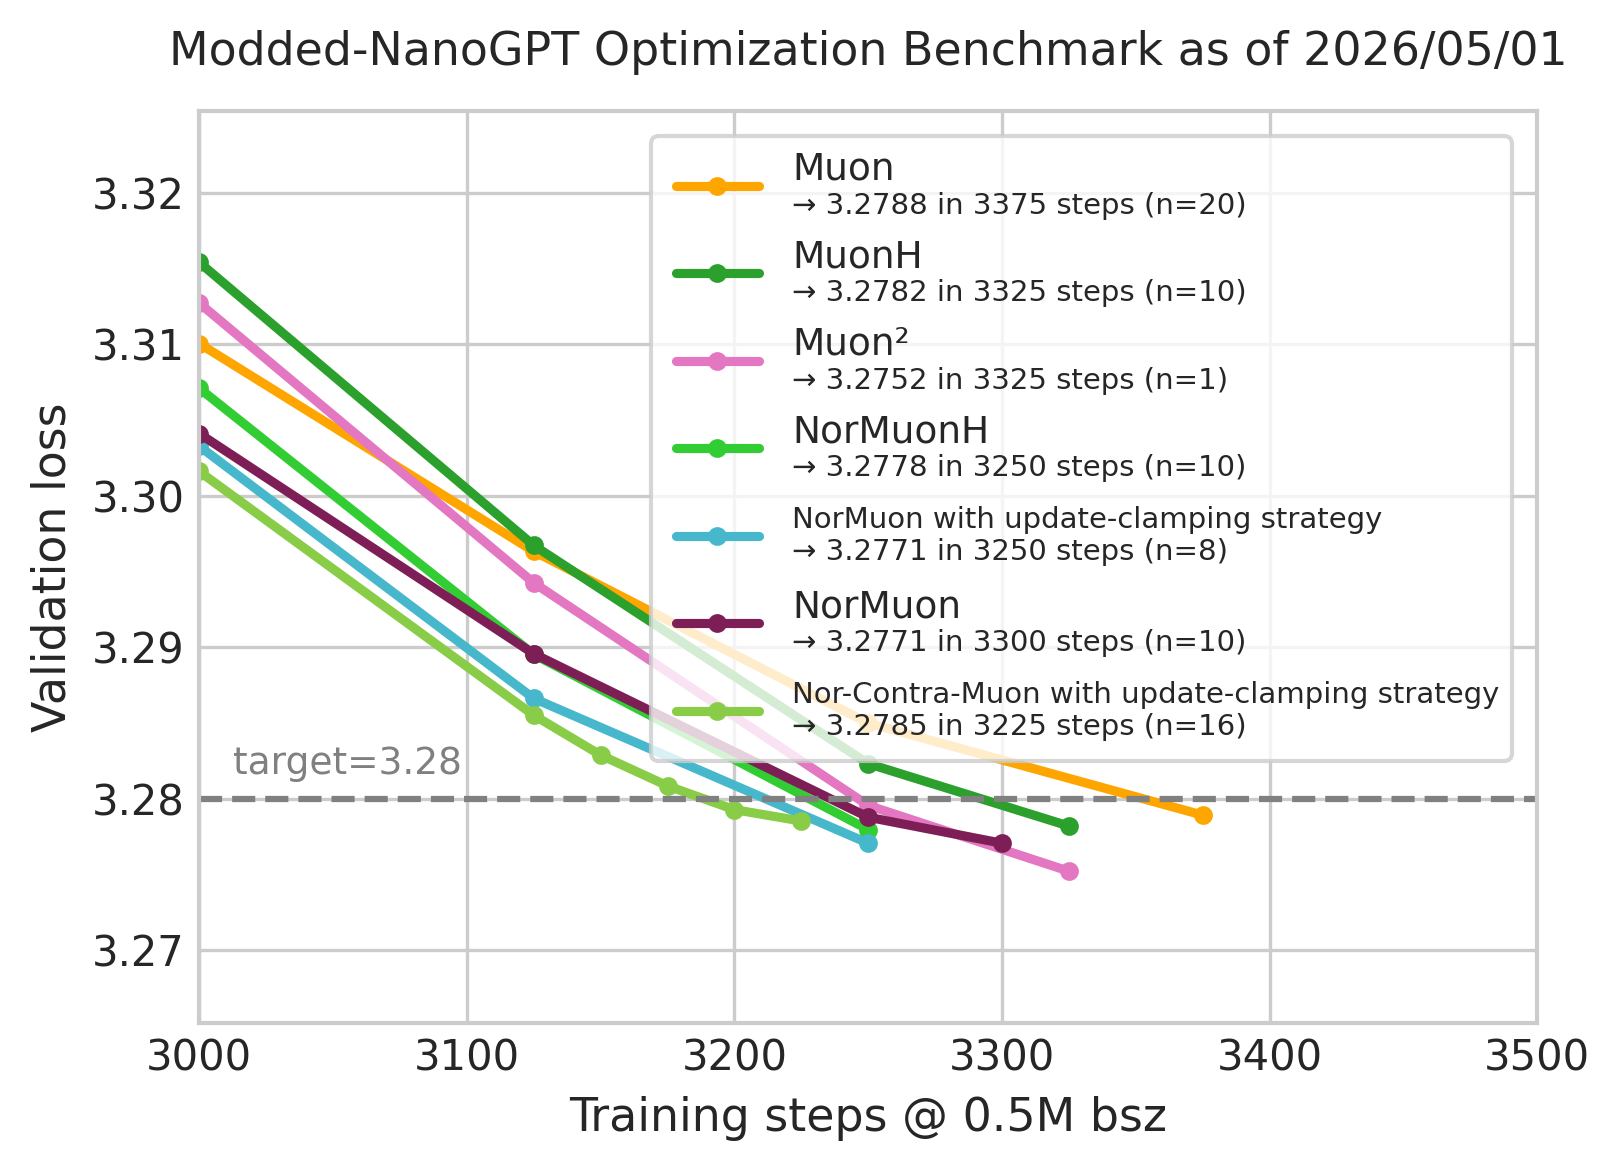
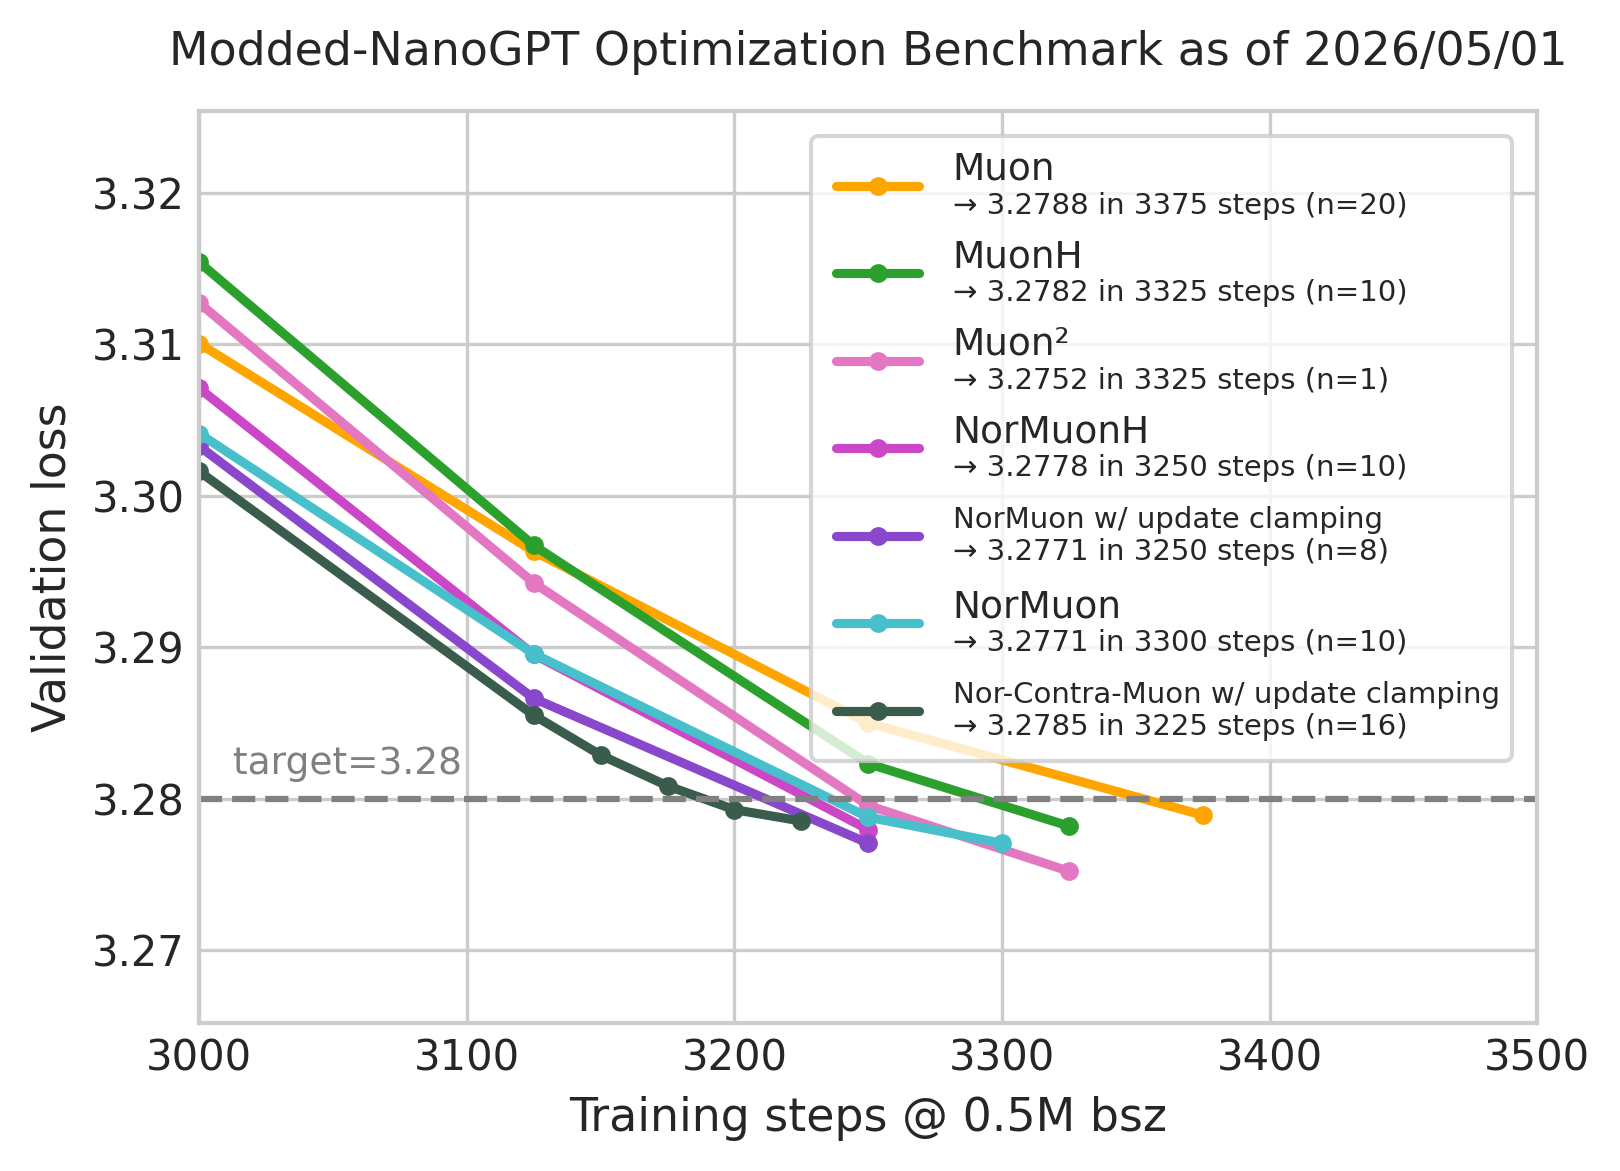
.

Changed region(s): [[0.1235, 0.123, 0.9259, 0.7378], [0.4012, 0.0922, 0.4938, 0.123], [0.8333, 0.3689, 0.8642, 0.3997]]

diff --git a/records/track_3_optimization/make_figures.py b/records/track_3_optimization/make_figures.py
@@ -18,10 +18,10 @@ logfiles = {
     5: ('MuonH', '#2ca02c'),
     4: ('AdamH', '#9467bd'),
     7: ('Muon²', '#e377c2'),
-    8: ('NorMuonH', '#32CD32'),
-    9: 'NorMuon with update-clamping strategy',
-    10: ('NorMuon', '#7e1e56'),
-    11: 'Nor-Contra-Muon with update-clamping strategy',
+    8: 'NorMuonH',
+    9: 'NorMuon w/ update clamping',
+    10: 'NorMuon',
+    11: ('Nor-Contra-Muon w/ update clamping', '#395c4c'),
 }
 readme_rows = {}
 row_pattern = re.compile(
